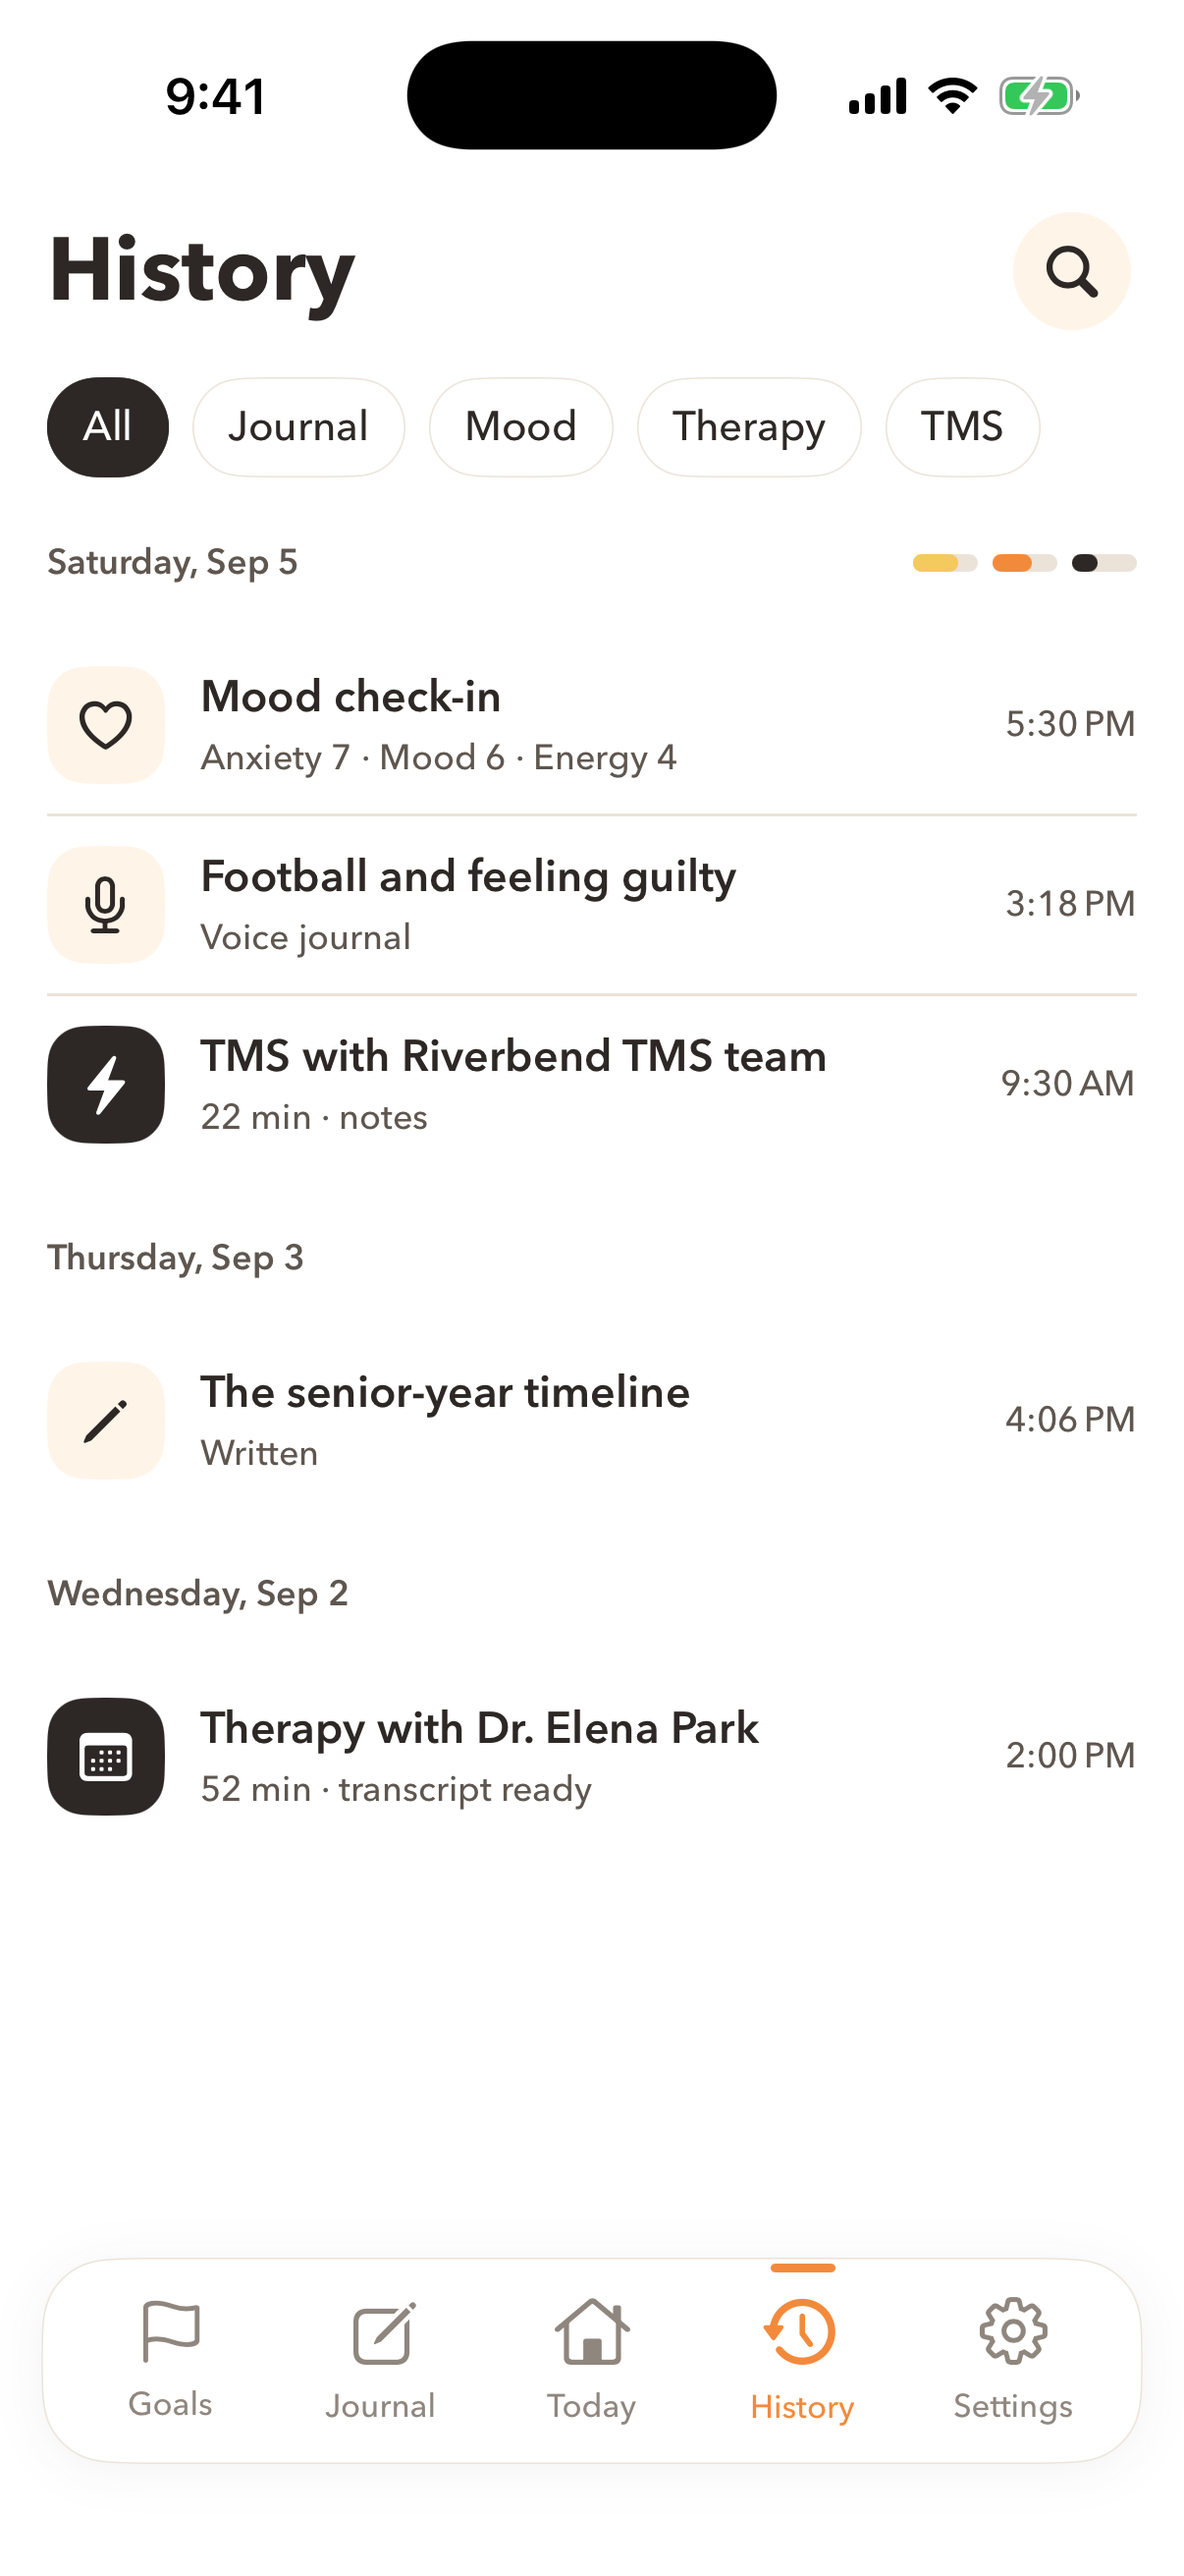
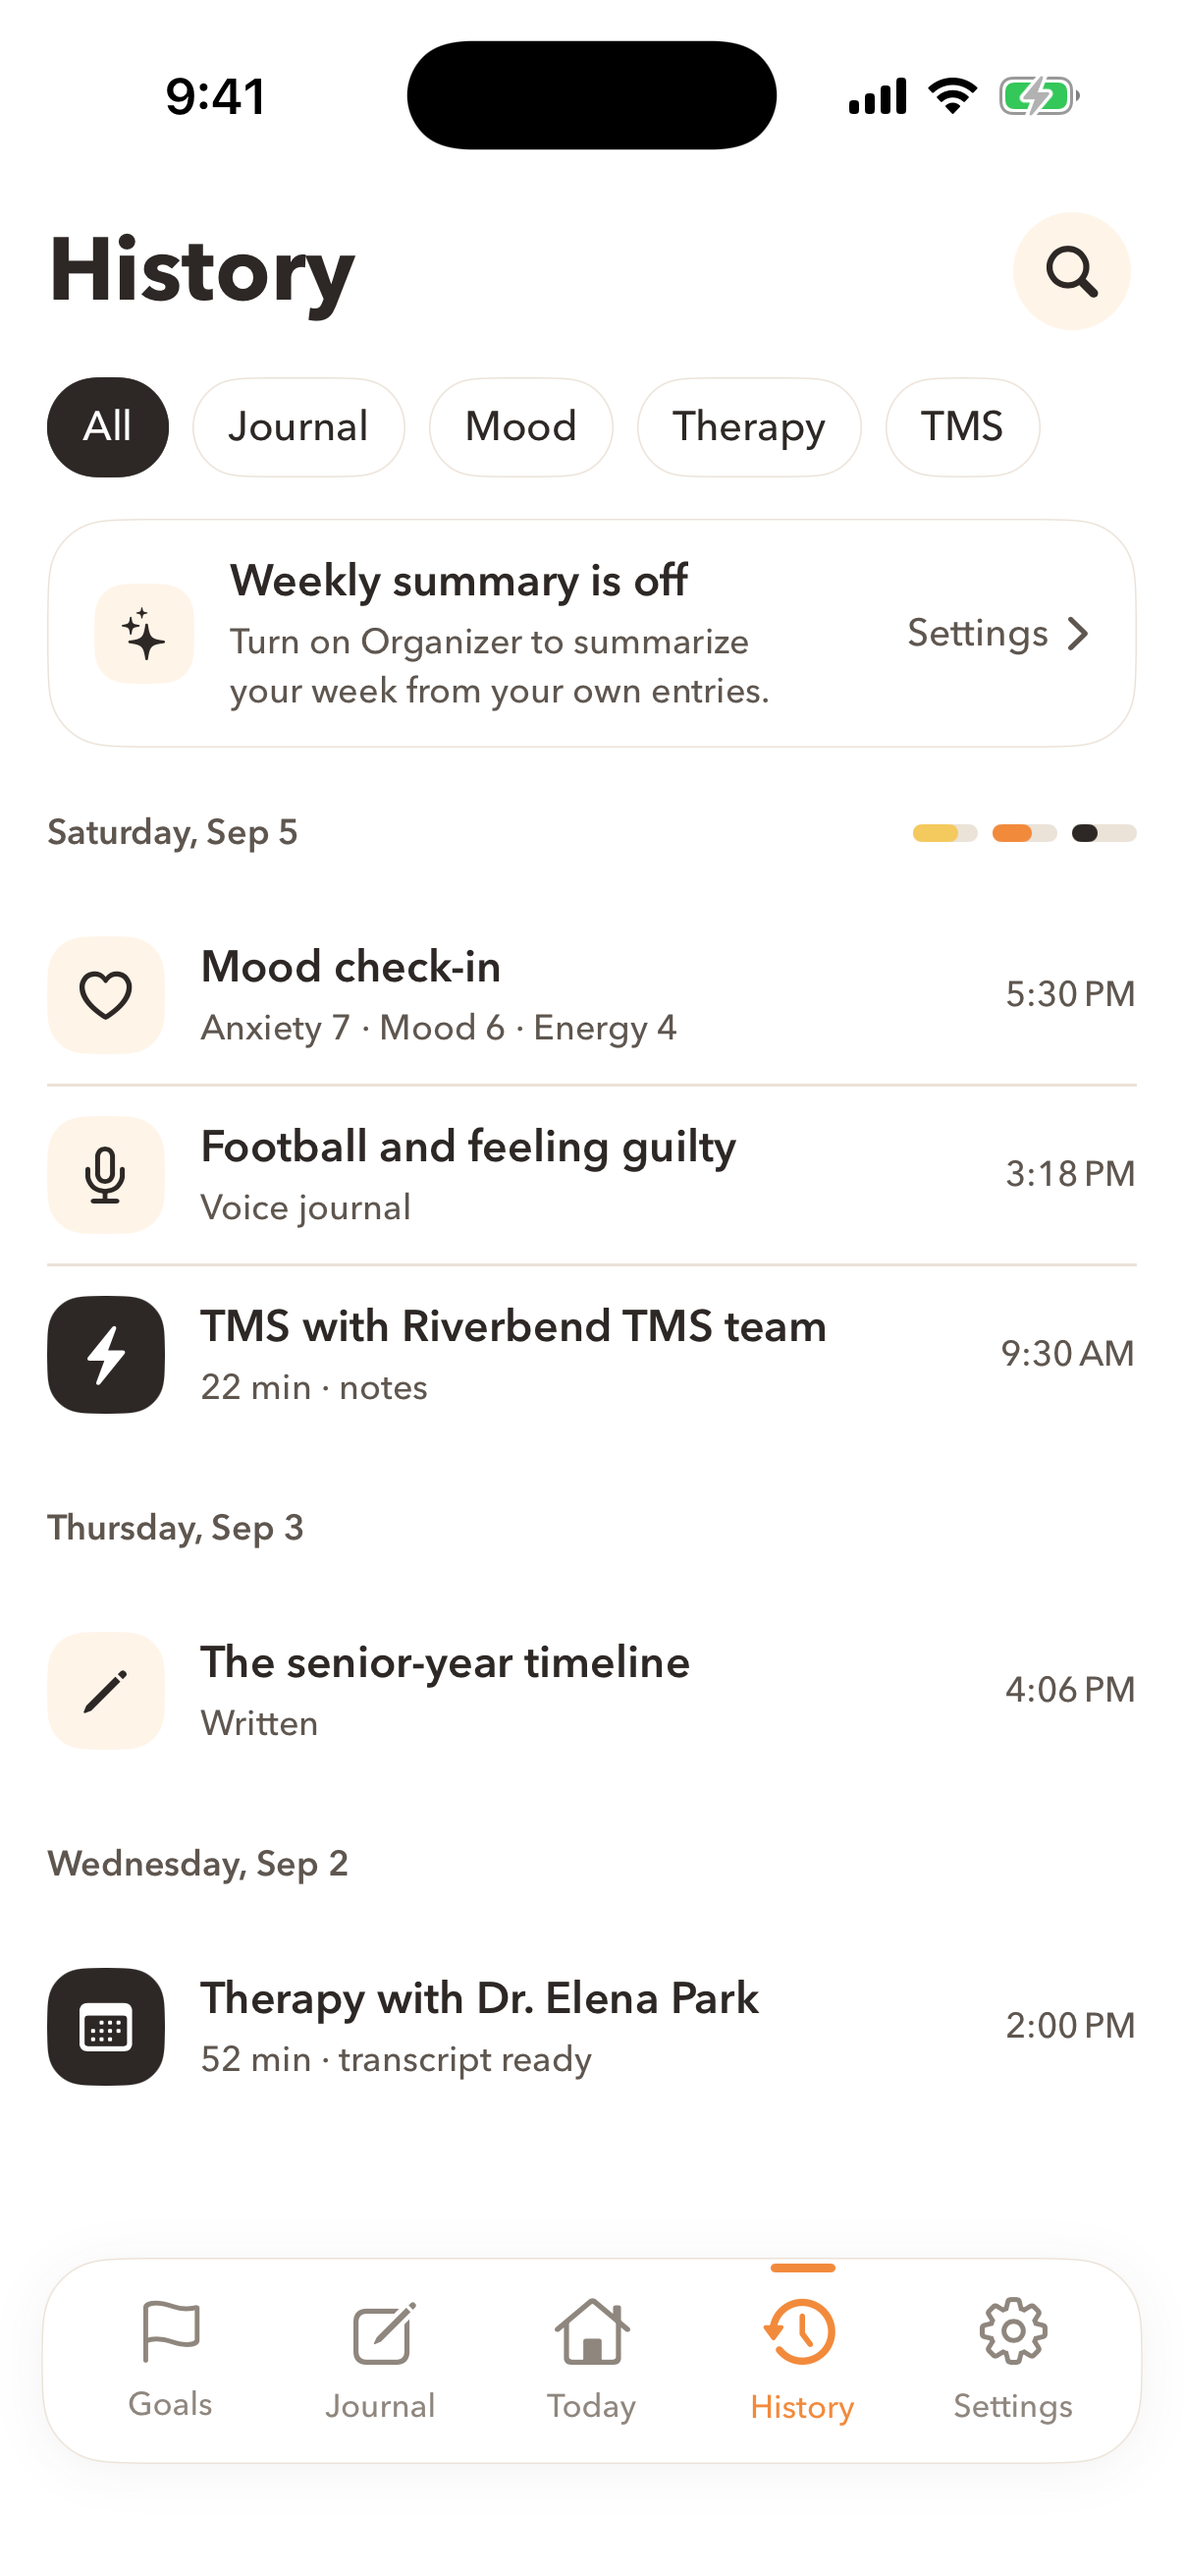
Front end: Phase 5 surfaces on Goals, History, and Today
Progress suggestions as a 'Progress noticed' card on Goals (mark it or not quite, with the
user's exact words); the weekly summary card on History with the consent sheet to create
one, or an honest 'off' row; Today's Up next shows how many suggestions await review.
291 tests, 45 suites.

diff --git a/apps/candycorn-ios/CandyCorn/Features/History/HistoryView.swift b/apps/candycorn-ios/CandyCorn/Features/History/HistoryView.swift
@@ -148,6 +148,10 @@ struct HistoryView: View {
     @Bindable var navigation: NavigationModel
     @Bindable var state: DemoState
     @State private var filter: HistoryFilter = .all
+    @State private var pendingSend: PendingAISend?
+    @State private var sendTask: Task<Void, Never>?
+    @State private var isPreparingWeekly = false
+    @State private var weeklyNotice: String?
 
     private var allRecords: [HistoryRecord] {
         HistoryModel.records(journals: state.journals, moods: state.moods, appointments: state.appointments)
@@ -173,6 +177,9 @@ struct HistoryView: View {
                     })
                 )
                 filterBar
+                if filter == .all {
+                    weeklyBlock
+                }
                 if visibleRecords.isEmpty {
                     emptyState
                 } else {
@@ -193,6 +200,98 @@ struct HistoryView: View {
             .padding(.bottom, DesignTokens.tabBarClearance)
         }
         .background(DesignTokens.canvas.ignoresSafeArea())
+        .sheet(item: $pendingSend, onDismiss: cancelSend) { pending in
+            WhatLeavesDeviceSheet(
+                pending: pending,
+                processingState: state.aiProcessingState(for: pending.action),
+                onSend: { send(pending) },
+                onCancel: cancelSend
+            )
+        }
+        .onDisappear(perform: cancelSend)
+    }
+
+    // MARK: Weekly summary (Phase 5)
+
+    @ViewBuilder private var weeklyBlock: some View {
+        if let summary = state.currentWeeklySummary {
+            WeeklySummaryCard(summary: summary)
+        } else if weeklyAvailable {
+            V2GroupCard {
+                V2ListRow(
+                    icon: .sparkles,
+                    title: isPreparingWeekly ? "Preparing" : "Summarize this week",
+                    detail: "Mood trend, what got done, what kept coming up. You review what leaves first.",
+                    divider: false,
+                    disabled: isPreparingWeekly
+                ) { prepareWeekly() }
+            }
+        } else {
+            V2GroupCard {
+                V2ListRow(
+                    icon: .sparkles,
+                    title: "Weekly summary is off",
+                    detail: "Turn on Organizer to summarize your week from your own entries.",
+                    value: "Settings",
+                    divider: false
+                ) { navigation.openSettings(.ai) }
+            }
+        }
+        if let weeklyNotice {
+            StatusNotice(title: "No weekly summary yet", detail: weeklyNotice, kind: .information)
+        }
+    }
+
+    private var weeklyAvailable: Bool {
+        state.aiMode != .off && state.aiProvider == .router && state.hasOpenRouterKey && state.routerAvailable
+    }
+
+    private func prepareWeekly() {
+        guard !isPreparingWeekly, pendingSend == nil else { return }
+        isPreparingWeekly = true
+        weeklyNotice = nil
+        Task {
+            defer { isPreparingWeekly = false }
+            do {
+                if let pending = try await state.refreshWeeklySummary() {
+                    pendingSend = pending
+                } else if state.currentWeeklySummary == nil {
+                    weeklyNotice = "Not enough saved this week to summarize yet. Journals, check-ins, and sessions count."
+                }
+            } catch let error as UserFacingError {
+                weeklyNotice = error.message
+            } catch {
+                weeklyNotice = "This week could not be prepared. Your entries are unchanged."
+            }
+        }
+    }
+
+    private func send(_ pending: PendingAISend) {
+        guard sendTask == nil else { return }
+        if case .failed = state.aiProcessingState(for: pending.action) {
+            pendingSend = nil
+            prepareWeekly()
+            return
+        }
+        sendTask = Task {
+            let succeeded = await state.performAISend(pending)
+            guard !Task.isCancelled, pendingSend?.id == pending.id else {
+                sendTask = nil
+                return
+            }
+            sendTask = nil
+            if succeeded {
+                pendingSend = nil
+            } else if case let .failed(message) = state.aiProcessingState(for: pending.action) {
+                weeklyNotice = message
+            }
+        }
+    }
+
+    private func cancelSend() {
+        sendTask?.cancel()
+        sendTask = nil
+        pendingSend = nil
     }
 
     private var filterBar: some View {
@@ -305,6 +404,77 @@ private struct HistoryRow: View {
         case .mood: .heart
         case .therapy: .calendar
         case .tms: .bolt
+        }
+    }
+}
+
+/// The week in review: four short sections, every line traced to your own entries.
+private struct WeeklySummaryCard: View {
+    let summary: WeeklySummaryResult
+
+    var body: some View {
+        V2Card(padding: 0) {
+            VStack(alignment: .leading, spacing: 0) {
+                HStack(spacing: DesignTokens.Spacing.compact) {
+                    IconTile(icon: .sparkles, size: 34)
+                    VStack(alignment: .leading, spacing: 2) {
+                        Text("This week")
+                            .font(TypeScale.cardTitle)
+                            .foregroundStyle(DesignTokens.cocoa)
+                        Text(intervalText)
+                            .font(TypeScale.meta)
+                            .foregroundStyle(DesignTokens.cocoaSoft)
+                    }
+                    Spacer(minLength: 0)
+                }
+                .padding(DesignTokens.Spacing.base)
+                ForEach(summary.sections.filter { !$0.items.isEmpty }) { section in
+                    VStack(alignment: .leading, spacing: DesignTokens.Spacing.small) {
+                        Text(Self.title(for: section.kind))
+                            .font(TypeScale.metaStrong)
+                            .foregroundStyle(DesignTokens.cocoaSoft)
+                        ForEach(section.items) { item in
+                            HStack(alignment: .top, spacing: DesignTokens.Spacing.small) {
+                                KernelGlyph(voice: item.provenance, height: 12, decorative: true)
+                                    .padding(.top, 4)
+                                Text(item.text)
+                                    .font(TypeScale.label)
+                                    .foregroundStyle(DesignTokens.cocoa)
+                                    .fixedSize(horizontal: false, vertical: true)
+                            }
+                        }
+                    }
+                    .padding(.horizontal, DesignTokens.Spacing.base)
+                    .padding(.vertical, DesignTokens.Spacing.compact)
+                    .frame(maxWidth: .infinity, alignment: .leading)
+                    .overlay(alignment: .top) {
+                        Rectangle().fill(DesignTokens.hairline).frame(height: 1).padding(.horizontal, DesignTokens.Spacing.base)
+                    }
+                }
+                ProvenanceStack(provenance: Provenance(
+                    voice: .candyCorn,
+                    label: "Candy Corn summarized your week",
+                    detail: "\(summary.metadata.provider), \(summary.metadata.model). Every line points at something you saved.",
+                    occurredAt: summary.interval.end,
+                    sourceRoute: nil
+                ))
+                .padding(.horizontal, DesignTokens.Spacing.base)
+                .padding(.vertical, DesignTokens.Spacing.compact)
+            }
+        }
+    }
+
+    private var intervalText: String {
+        let end = summary.interval.end.addingTimeInterval(-1)
+        return "\(summary.interval.start.formatted(.dateTime.month(.abbreviated).day())) to \(end.formatted(.dateTime.month(.abbreviated).day()))"
+    }
+
+    static func title(for kind: WeeklySummarySectionKind) -> String {
+        switch kind {
+        case .moodTrend: "Mood this week"
+        case .completedWork: "What got done"
+        case .recurringTopics: "What kept coming up"
+        case .openForNextAppointment: "Open for your next appointment"
         }
     }
 }

diff --git a/apps/candycorn-ios/CandyCorn/Features/Goals/GoalsView.swift b/apps/candycorn-ios/CandyCorn/Features/Goals/GoalsView.swift
@@ -83,6 +83,22 @@ struct GoalsView: View {
                         SuggestionCard(goal: goal, onAdd: { updateStatus(goal, .active) }, onDismiss: { updateStatus(goal, .dismissed) })
                     }
                 }
+                if !progressSuggestions.isEmpty {
+                    SectionLine(title: "Progress noticed", trailing: "\(progressSuggestions.count) to review")
+                    V2Card(padding: 0) {
+                        VStack(spacing: 0) {
+                            ForEach(Array(progressSuggestions.enumerated()), id: \.element.id) { index, suggestion in
+                                if index > 0 { Rectangle().fill(DesignTokens.hairline).frame(height: 1).padding(.horizontal, DesignTokens.Spacing.base) }
+                                ProgressSuggestionRow(
+                                    suggestion: suggestion,
+                                    goalTitle: goalTitle(for: suggestion.goalID),
+                                    onAccept: { Task { _ = await state.accept(suggestionID: suggestion.id) } },
+                                    onDismiss: { Task { _ = await state.dismiss(suggestionID: suggestion.id) } }
+                                )
+                            }
+                        }
+                    }
+                }
                 if visibleSections.isEmpty && suggestions.isEmpty {
                     V2Card(background: DesignTokens.surfaceWarm, showsBorder: false) {
                         VStack(alignment: .leading, spacing: DesignTokens.Spacing.small) {
@@ -135,6 +151,14 @@ struct GoalsView: View {
     }
 
     private var suggestions: [Goal] { GoalLedgerModel.suggestions(for: state.goals) }
+
+    private var progressSuggestions: [GoalProgressSuggestion] {
+        state.pendingProgressSuggestions.filter { suggestion in state.goals.contains { $0.id == suggestion.goalID } }
+    }
+
+    private func goalTitle(for goalID: UUID) -> String {
+        state.goals.first { $0.id == goalID }?.title ?? "A goal"
+    }
 
     private var openTalkingPoints: Int { state.talkingPoints.filter { $0.status == .open }.count }
 
@@ -325,6 +349,82 @@ private extension Goal.Cadence {
         case .ongoing: "Ongoing"
         case .observation: "Observation"
         case .homework: "Homework"
+        }
+    }
+}
+
+/// One progress suggestion from a journal or session: what Candy Corn noticed, the goal, your words, accept or dismiss.
+private struct ProgressSuggestionRow: View {
+    let suggestion: GoalProgressSuggestion
+    let goalTitle: String
+    let onAccept: () -> Void
+    let onDismiss: () -> Void
+
+    var body: some View {
+        VStack(alignment: .leading, spacing: DesignTokens.Spacing.compact) {
+            HStack(alignment: .top, spacing: DesignTokens.Spacing.compact) {
+                IconTile(icon: icon, size: 34)
+                VStack(alignment: .leading, spacing: 2) {
+                    Text(kicker)
+                        .font(TypeScale.metaStrong)
+                        .foregroundStyle(DesignTokens.cocoaSoft)
+                    Text(goalTitle)
+                        .font(TypeScale.cardTitle)
+                        .foregroundStyle(DesignTokens.cocoa)
+                        .fixedSize(horizontal: false, vertical: true)
+                }
+            }
+            if !suggestion.note.isEmpty {
+                Text(suggestion.note)
+                    .font(TypeScale.label)
+                    .foregroundStyle(DesignTokens.cocoaSoft)
+                    .fixedSize(horizontal: false, vertical: true)
+            }
+            if let quote = suggestion.evidence.first?.quote, !quote.isEmpty {
+                HStack(alignment: .top, spacing: DesignTokens.Spacing.small) {
+                    KernelGlyph(voice: .user, height: 14, decorative: true)
+                        .padding(.top, 2)
+                    VStack(alignment: .leading, spacing: 2) {
+                        Text("Your exact words")
+                            .font(TypeScale.metaStrong)
+                            .foregroundStyle(DesignTokens.cocoa)
+                        Text("“\(quote)”")
+                            .font(TypeScale.meta)
+                            .foregroundStyle(DesignTokens.cocoaSoft)
+                            .fixedSize(horizontal: false, vertical: true)
+                    }
+                }
+                .padding(DesignTokens.Spacing.compact)
+                .frame(maxWidth: .infinity, alignment: .leading)
+                .background(DesignTokens.surfaceWarm)
+                .clipShape(RoundedRectangle(cornerRadius: 14, style: .continuous))
+            }
+            HStack(spacing: DesignTokens.Spacing.small) {
+                Button("Mark it", action: onAccept).buttonStyle(CompactDarkButtonStyle())
+                Button("Not quite", action: onDismiss).buttonStyle(CompactGhostButtonStyle())
+                Spacer(minLength: 0)
+                ProvenanceInline(voice: .candyCorn, text: "Candy Corn noticed this")
+            }
+        }
+        .padding(DesignTokens.Spacing.base)
+        .frame(maxWidth: .infinity, alignment: .leading)
+        .accessibilityElement(children: .contain)
+        .accessibilityLabel("\(kicker): \(goalTitle). \(suggestion.note)")
+    }
+
+    private var kicker: String {
+        switch suggestion.mark {
+        case .doneToday: "Done today?"
+        case .partial: "Partly done?"
+        case .blocked: "Blocked?"
+        }
+    }
+
+    private var icon: AppIcon {
+        switch suggestion.mark {
+        case .doneToday: .checkCircle
+        case .partial: .clock
+        case .blocked: .close
         }
     }
 }

diff --git a/apps/candycorn-ios/CandyCorn/Features/Today/TodayView.swift b/apps/candycorn-ios/CandyCorn/Features/Today/TodayView.swift
@@ -243,7 +243,7 @@ struct TodayView: View {
                     Spacer()
                     Button { navigation.navigate(to: .goals) } label: {
                         HStack(spacing: 2) {
-                            Text("\(openGoals.count) \(openGoals.count == 1 ? "goal" : "goals")")
+                            Text(upNextTrailing)
                             AppIcon.chevronRight.image.font(.system(size: 12, weight: .semibold))
                         }
                         .font(TypeScale.metaStrong)
@@ -302,6 +302,12 @@ struct TodayView: View {
     private var moodAccessibilityValue: String {
         guard let mood = state.mood else { return "No check-in yet" }
         return "Anxiety \(mood.anxiety.map(String.init) ?? "not logged"), mood \(mood.mood.map(String.init) ?? "not logged"), energy \(mood.energy.map(String.init) ?? "not logged")"
+    }
+
+    private var upNextTrailing: String {
+        let goals = "\(openGoals.count) \(openGoals.count == 1 ? "goal" : "goals")"
+        let review = state.pendingProgressSuggestions.count
+        return review > 0 ? "\(goals) · \(review) to review" : goals
     }
 
     private var openGoals: [Goal] {
